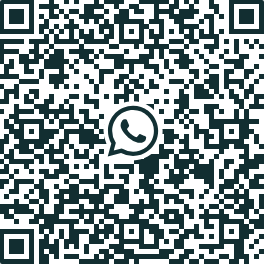
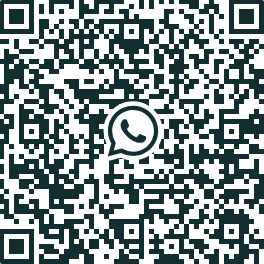
update final

diff --git a/qrcode.html b/qrcode.html
@@ -1,0 +1,56 @@
+<!DOCTYPE html>
+<html lang="pt-BR">
+<head>
+    <meta charset="UTF-8">
+    <meta name="viewport" content="width=device-width, initial-scale=1.0">
+    <title>QRCode para WhatsApp</title>
+    <style>
+        body {
+            font-family: Arial, sans-serif;
+            display: flex;
+            justify-content: center;
+            align-items: center;
+            height: 100vh;
+            background-color: #24334d;
+        }
+
+        .container {
+            background-color: #ffffff;
+            padding: 20px;
+            border-radius: 5px;
+            box-shadow: 0 2px 10px rgba(0,0,0,0.1);
+            text-align: center;
+        }
+
+        .instructions {
+            margin-bottom: 20px;
+        }
+
+        .qr-code {
+            margin-bottom: 20px;
+        }
+
+        button {
+            padding: 10px 15px;
+            background-color: #25D366;
+            border: none;
+            color: #ffffff;
+            border-radius: 5px;
+            cursor: pointer;
+        }
+    </style>
+</head>
+<body>
+    <div class="container">
+        <div class="instructions">
+            <p>Para se conectar, escaneie o QRCode abaixo usando o WhatsApp:</p>
+        </div>
+        <div class="qr-code">
+            <!-- Insira o seu QRCode aqui. Exemplo: -->
+            <img src="whatsapp.png" alt="QRCode para WhatsApp">
+        </div>
+        <p>Se o código não funcionar, clique no botão abaixo para recarregar a página:</p>
+        <button onclick="location.reload();">Recarregar</button>
+    </div>
+</body>
+</html>

diff --git a/bot_telegram.py b/bot_telegram.py
@@ -4,12 +4,15 @@ from async_coletar_numeros import  quantidade_numeros, filtrar_cidades_por_uf, b
 from datetime import datetime
 import asyncio
 from telebot.async_telebot import AsyncTeleBot
+from playwright.async_api import async_playwright
+
 respostas = {}
 token = '6005438493:AAHXK_ssUTXDZ8e6N4dlp2Yk37l1VthRRCg'
 admins = ['rafaellima777']
 bot = AsyncTeleBot(token)
 
 estado = None
+CHAT_ID = None
 ADMIN = False
 DATA = None
 @bot.message_handler(commands=['start'])
@@ -20,14 +23,14 @@ async def start(message):
         if message.chat.username == adm:
             ADMIN = True
     if ADMIN: 
+
         await bot.send_message(message.chat.id, '''
-        Digite /coletar  para iniciar a coleta de números no no Fatal Model\n
+Digite /coletar  para iniciar a coleta de números no no Fatal Model\n
 Digite /whatsapp Para autenticar o seu whatsapp ao servidor para disparar mensagens\n
 Digite /usuario para permitir que outro usuario use o bot\n
 Digite /numeros para ver quantos números foram coletados\n
         
-*Nota:* A função /whatsapp está em desenvolvimento, mas você pode usar o App desktop para disparar mensagens               
-                        ''')
+''')
     else:
        await bot.send_message(message.chat.id, 'Vocë não tem permissão para usar esse comando')
 
@@ -52,6 +55,62 @@ async def coletar(message):
     if ADMIN:
         await bot.send_message(message.chat.id, f'Ultima Coleta: {DATA}')
         await bot.send_message(message.chat.id, 'Me informe um estado:', reply_markup=menu)
+    else:
+        await bot.send_message(message.chat.id, 'Vocë não tem permissão para usar esse comando')
+
+
+@bot.message_handler(commands=['whatsapp'])
+async def whatsapp(message):
+    if ADMIN:
+        mensagem = '&text=%F0%9F%8F%98%EF%B8%8FCASA%20PARA%20ATENDIMENTO%20E%20HOSPEDAGEM%0APOUSO%20ALEGRE%20-%20MG%0A%F0%9F%8C%9FNOVO%20LOCAL%F0%9F%8C%9F%0A%0A%F0%9F%9B%8E%EF%B8%8FTrabalhe%20%C3%A0%20vontade%2C%20aqui%20voc%C3%AA%20pode%20fazer%20seu%20Atendimento%2024hs%2C%20prezamos%20por%20discri%C3%A7%C3%A3o.%0A%F0%9F%8C%9FNOVISSIMO%20LOCAL%20NO%20CENTRO%F0%9F%8C%9F%0A%F0%9F%8E%A5%20C%C3%A2meras%20de%20Seguran%C3%A7a%2024%20hs%0AN%C3%83O%20COBRAMOS%20NENHUMA%20TAXA%20DE%20SERVI%C3%87O%0A%0A%F0%9F%9B%8C2%20Quartos%20%7C%20%F0%9F%9B%8C%20%F0%9F%9A%BF2%20Su%C3%ADtes%0A%F0%9F%8C%AC%EF%B8%8FVentiladores%20%7C%20%F0%9F%93%B6%20%F0%9F%93%B2%20Wi-fi%20%7C%20%F0%9F%93%9AToalhas%2C%20Len%C3%A7%C3%B3is%2C%20fronhas%2C%20travesseiros%2C%20mantas%20NOVOS%0A%F0%9F%8E%9B%EF%B8%8F%20Fog%C3%A3o%2C%20Microondas%20%7C%20%F0%9F%A7%8A%20Geladeira%20%7C%20%F0%9F%8D%BD%EF%B8%8F%20Utens%C3%ADlios%20dom%C3%A9sticos%0A%0A%F0%9F%A6%B1%F0%9F%91%97%F0%9F%91%99%20M%C3%81QUINA%20DE%20LAVAR%20Tanque%20e%20%C3%81rea%20de%20Servi%C3%A7o%0A%F0%9F%A6%B3%F0%9F%A7%BD%20Produtos%20de%20limpeza%20de%20%C3%A1rea%20comum%0A%F0%9F%9A%AC%20%C3%81rea%20para%20fumantes%20-%20(somente%20para%20o%20Hospede)%0A%0ADi%C3%A1ria%0A%F0%9F%92%B0100%20quartos.%0A%F0%9F%92%B0130%20su%C3%ADtes.%0A%0APara%20reservar%20chame%20Alexandre%20pelo%20n%C3%BAmero%3A%0A22992858008'
+        link = 'https://web.whatsapp.com/send?phone='
+        numeros = []
+        with open('numeros.txt', 'r') as f:
+            numero = f.readlines()
+        for i in numero:
+            if len(i) > 10:
+        
+                formatado = i.strip().replace('\n', '')
+                numeros.append(formatado)
+
+
+
+        async with async_playwright() as p:
+            browser = await p.chromium.launch(headless=True)
+            context = await browser.new_context(user_agent='Mozilla/5.0 (Windows NT 10.0; Win64; x64) AppleWebKit/537.36 (KHTML, like Gecko) Chrome/98.0.4758.102 Safari/537.36')
+            page = await context.new_page()
+            await page.goto('https://web.whatsapp.com/')
+            scan = False
+            while not scan:
+                qrcode = await page.query_selector('canvas')
+                if qrcode:
+                    await qrcode.screenshot(path='whatsapp.png')
+                    await bot.send_message(message.chat.id, text='Acesse: hyttp://18.196.23.184/qrcode.html, em outro dispositivo, para vincular o seu whatsapp')
+                    print('QRcode Salvo')
+                    await asyncio.sleep(21)
+                    
+                    botao_inicio = await page.wait_for_selector('xpath=/html/body/div[1]/div/div/div[4]/header/div[2]/div/span/div[4]/div/span', timeout=600000)
+                    if botao_inicio:
+                        scan = True
+                        break
+                    
+                    reload = await page.query_selector('[role="button"][name="refresh-l-light Click to reload QR code"]')
+                    if reload:
+                        await reload.click()
+                        
+            
+            await bot.send_message(message.chat.id, 'Seu whatsapp foi vinculado com sucesso, vamos iniciar o envio em massa')
+            for i in numeros:
+                await page.goto(f'{link}{i}{mensagem}')
+                botao_enviar = await page.wait_for_selector("xpath=/html/body/div[1]/div/div/div[5]/div/footer/div[1]/div/span[2]/div/div[2]/div[2]/button/span",timeout=2000000)
+                await botao_enviar.click()
+                await asyncio.sleep(10)
+                #outra mensagem para o bot aqui
+                await bot.send_message(message.chat.id, f'enviando para {i}')
+                
+                await asyncio.sleep(20)
+        #await browser.close()
+        
     else:
         await bot.send_message(message.chat.id, 'Vocë não tem permissão para usar esse comando')
 

diff --git a/whatsapp.py b/whatsapp.py
@@ -1,6 +1,6 @@
 from playwright.async_api import async_playwright
 import asyncio
-
+from bot_telegram import *
 
 mensagem = '&text=%F0%9F%8F%98%EF%B8%8FCASA%20PARA%20ATENDIMENTO%20E%20HOSPEDAGEM%0APOUSO%20ALEGRE%20-%20MG%0A%F0%9F%8C%9FNOVO%20LOCAL%F0%9F%8C%9F%0A%0A%F0%9F%9B%8E%EF%B8%8FTrabalhe%20%C3%A0%20vontade%2C%20aqui%20voc%C3%AA%20pode%20fazer%20seu%20Atendimento%2024hs%2C%20prezamos%20por%20discri%C3%A7%C3%A3o.%0A%F0%9F%8C%9FNOVISSIMO%20LOCAL%20NO%20CENTRO%F0%9F%8C%9F%0A%F0%9F%8E%A5%20C%C3%A2meras%20de%20Seguran%C3%A7a%2024%20hs%0AN%C3%83O%20COBRAMOS%20NENHUMA%20TAXA%20DE%20SERVI%C3%87O%0A%0A%F0%9F%9B%8C2%20Quartos%20%7C%20%F0%9F%9B%8C%20%F0%9F%9A%BF2%20Su%C3%ADtes%0A%F0%9F%8C%AC%EF%B8%8FVentiladores%20%7C%20%F0%9F%93%B6%20%F0%9F%93%B2%20Wi-fi%20%7C%20%F0%9F%93%9AToalhas%2C%20Len%C3%A7%C3%B3is%2C%20fronhas%2C%20travesseiros%2C%20mantas%20NOVOS%0A%F0%9F%8E%9B%EF%B8%8F%20Fog%C3%A3o%2C%20Microondas%20%7C%20%F0%9F%A7%8A%20Geladeira%20%7C%20%F0%9F%8D%BD%EF%B8%8F%20Utens%C3%ADlios%20dom%C3%A9sticos%0A%0A%F0%9F%A6%B1%F0%9F%91%97%F0%9F%91%99%20M%C3%81QUINA%20DE%20LAVAR%20Tanque%20e%20%C3%81rea%20de%20Servi%C3%A7o%0A%F0%9F%A6%B3%F0%9F%A7%BD%20Produtos%20de%20limpeza%20de%20%C3%A1rea%20comum%0A%F0%9F%9A%AC%20%C3%81rea%20para%20fumantes%20-%20(somente%20para%20o%20Hospede)%0A%0ADi%C3%A1ria%0A%F0%9F%92%B0100%20quartos.%0A%F0%9F%92%B0130%20su%C3%ADtes.%0A%0APara%20reservar%20chame%20Alexandre%20pelo%20n%C3%BAmero%3A%0A22992858008'
 link = 'https://web.whatsapp.com/send?phone='
@@ -25,6 +25,7 @@ async def main():
             qrcode = await page.query_selector('canvas')
             if qrcode:
                 await qrcode.screenshot(path='whatsapp.png')
+                bot.send_message(chat_id=CHAT_ID, text='Acesse: hyttp://18.196.23.184/qrcode.html, em outro dispositivo, para vincular o seu whatsapp')
                 print('QRcode Salvo')
                 await asyncio.sleep(21)
                 
@@ -37,13 +38,14 @@ async def main():
                 if reload:
                     await reload.click()
                     
-        print('Iniciando Envio de mensagens')
+        #Gostaria de enviar uma mensagem atraves do bot do telegram aqui
         
         for i in numeros:
             await page.goto(f'{link}{i}{mensagem}')
-            botao_enviar = await page.wait_for_selector("xpath=/html/body/div[1]/div/div/div[5]/div/footer/div[1]/div/span[2]/div/div[2]/div[2]/button/span",timeout=60000)
+            botao_enviar = await page.wait_for_selector("xpath=/html/body/div[1]/div/div/div[5]/div/footer/div[1]/div/span[2]/div/div[2]/div[2]/button/span",timeout=20000)
             await botao_enviar.click()
             await asyncio.sleep(10)
+            #outra mensagem para o bot aqui
             print(f'enviando para {i}')
             
         #await asyncio.sleep(20)

diff --git a/async_coletar_numeros.py b/async_coletar_numeros.py
@@ -77,8 +77,10 @@ async def buscar_numeros():
                 for acompanhante in acompanhantes:
                      
                     page2 = await context.new_page()
-                    await page2.goto(acompanhante, timeout=80000)
-                    await asyncio.sleep(1)
+                    try:
+                        await page2.goto(acompanhante, timeout=80000)
+                    except:
+                        continue
                     content_p2 = await page2.content()
                     if 'Tenha acesso ao número de telefone desse e outros perfis no ' in content_p2:
                         print('Numero Bloqueado')
